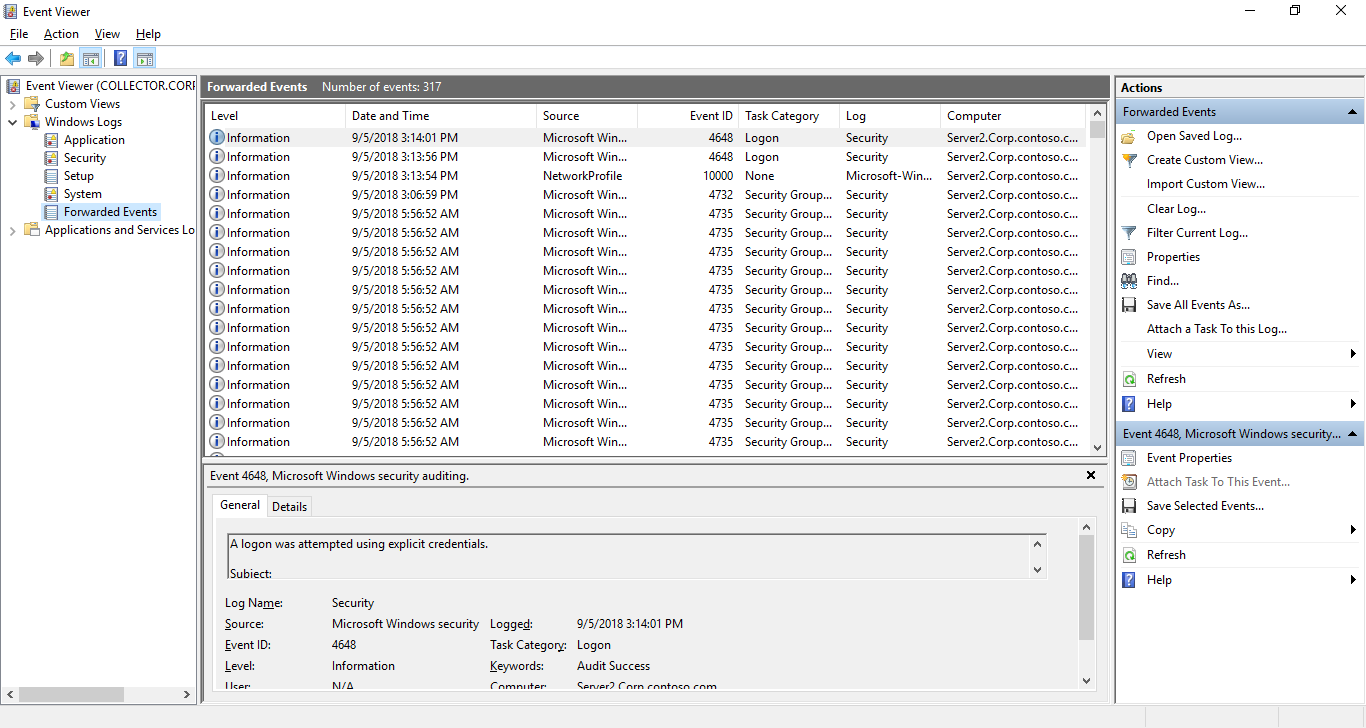
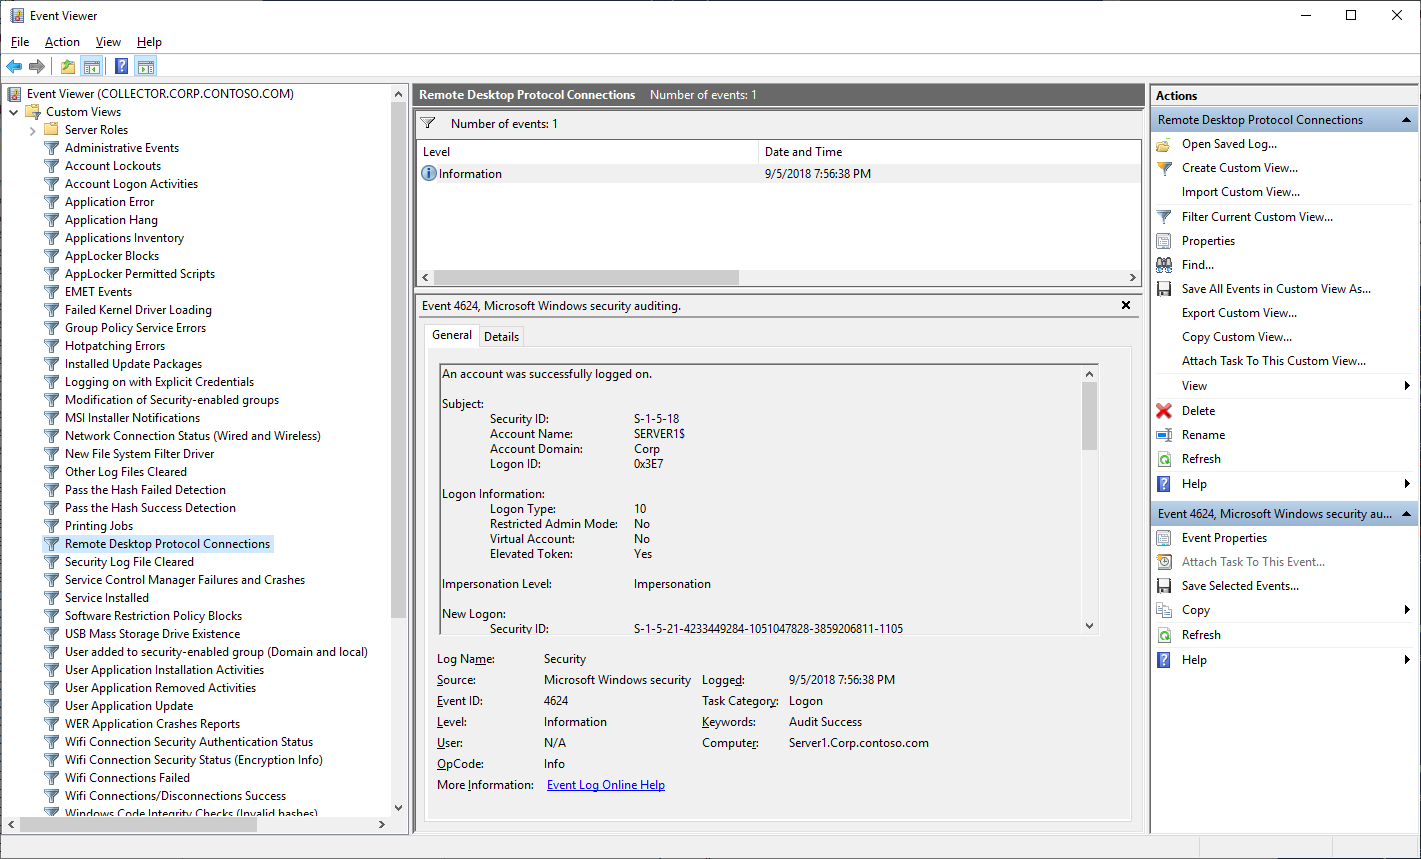
another minor changes...
Former-commit-id: 2a765eabbdc629f7f656391fbbe337ba21b55bae

diff --git a/Scenarios/Windows Event Forwarding/readme.md b/Scenarios/Windows Event Forwarding/readme.md
@@ -57,7 +57,7 @@ $LabConfig.ServerVHDs += @{
 
 ## Configure event WEF collector and import NSA recommended events
 
-Fist step would be to download Event Forwarding Guidance github project into Downloads and will unzip it. It contains XML samples and list of logs and events recommendations (in JSON and CSV). It also contains some helper functions, but those will not be used
+Fist step would be to download Event Forwarding Guidance github project into Downloads and will unzip it. It contains XML samples and list of logs and events recommendations (in JSON and CSV). It also contains some helper functions, for creating custom views.
 
 Run all code from DC (or Win10 management machine, but make sure you install RSAT).
 
@@ -79,7 +79,7 @@ Let's create AD Group for each sample rule. This will enable us to control what 
 
 ```PowerShell
 #Create AD Groups for NSA Rules
-$SampleRuleNames=(Get-ChildItem -Path "$env:USERPROFILE\Downloads\Event-Forwarding-Guidance-master\Subscriptions\samples").BaseName
+$SampleRuleNames=(Get-ChildItem -Path "$env:USERPROFILE\Downloads\Event-Forwarding-Guidance-master\Subscriptions\NT6").BaseName
 $OUPath="ou=workshop,dc=corp,dc=contoso,dc=com"
 $OUName="WEF Rules"
 
@@ -105,15 +105,22 @@ Invoke-Command -Session $CollectorSession -ScriptBlock {
 }
 
 #Import XML files for rules, that will be configured on collector
-$XMLFiles=Get-ChildItem "$env:USERPROFILE\downloads\Event-Forwarding-Guidance-master\Subscriptions\samples\"
+$XMLFiles=Get-ChildItem "$env:USERPROFILE\downloads\Event-Forwarding-Guidance-master\Subscriptions\NT6\"
 
-#process Templates and and add AD group to each template. 
+#modify target domain name in AccountLogons.xml
+$Path="$env:USERPROFILE\Downloads\Event-Forwarding-Guidance-master\Subscriptions\NT6\AccountLogons.xml"
+$AccountLogonsXML=Get-Content -Path $Path
+$AccountLogonsXML[45]=$AccountLogonsXML[45].replace("TEST","$env:userdomain")
+$AccountLogonsXML[59]=$AccountLogonsXML[59].replace("TEST","$env:userdomain")
+$AccountLogonsXML | Out-File -FilePath $Path
+
+#process Templates, add AD group to each template and create subscription
 foreach ($XMLFile in $XMLFiles){
     #Generate AllowedSourceDomainComputers parameter
     $SID=(Get-ADGroup -Identity $XMLFile.Basename).SID.Value
     $AllowedSourceDomainComputers="O:NSG:BAD:P(A;;GA;;;$SID)S:"
     [xml]$XML=get-content $XMLFile.FullName
-    invoke-command -Session $CollectorSession -scriptblock {
+    invoke-command -Session $CollectorSession -ScriptBlock {
         $xml=$using:xml
         $xml.subscription.AllowedSourceDomainComputers=$using:AllowedSourceDomainComputers
         $xml.Save("$env:TEMP\temp.xml")
@@ -203,5 +210,24 @@ $CollectorName="Collector"
 Enable-NetFirewallRule -CimSession $CollectorName -DisplayGroup "Remote Event Log Management"
  
 ```
+
+NSA also provides Custom views generator. It will create custom view xmls out of wecutil xmls. So let's create it and copy to custom views... 
+
+```PowerShell
+$WEFFolder="$env:USERPROFILE\Downloads\Event-Forwarding-Guidance-master"
+cd "$WEFFolder\Scripts"
+
+#Create custom view xmls
+.\creatCV.ps1 -dir ..\subscriptions\nt6 -odir ..\customviews\nt6
+
+#copy it to C:\ProgramData\Microsoft\Event Viewer\Views
+copy-item -path "$WEFFolder\customviews\nt6\*" -destination "$env:ProgramData\Microsoft\Event Viewer\Views"
+
+#run event viewer
+eventvwr.msc
+ 
+```
+
+So if everything works well, and you will use RDP for connecting to for example Server1, you will see this event in collector
 
 ![](/Scenarios/Windows%20Event%20Forwarding/Screenshots/EventViewer.png)
